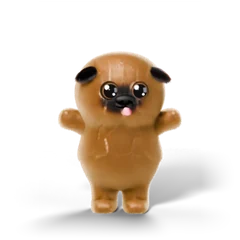
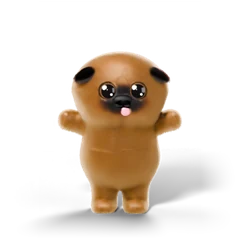
Dancing mascots: multi-move dance, hold to speed up, tap for spin/flip/pose
Pug and alien now play a sprite-sheet dance (shuffle, raise the roof, spin
and point, hops, wiggle) at 24 fps. Holding speeds the dance to ~2.2x and eases
back on release; each tap plays the next special (spin jump, backflip,
superstar pose), cross-faded over the dance. Reduced motion shows a still.

Claude-Session: https://claude.ai/code/session_019fbWZE46PVqoy15rDZvK2K

diff --git a/index.html b/index.html
@@ -408,7 +408,7 @@ body.token-world .topic.pile .symbol::after{content:"";position:absolute;left:-3
 .dgMore:focus-visible{outline:3px solid var(--text);outline-offset:2px}
 .alienRow{display:flex;align-items:center;gap:12px}.alienCat{width:64px;height:64px;flex:none;animation:alienBob 4s ease-in-out infinite}.alienRow h2{margin:0;font-size:26px}
 @keyframes alienBob{50%{transform:translateY(-5px) rotate(-4deg)}}@media(prefers-reduced-motion:reduce){.alienCat{animation:none}}
-.dogMascot,.bubDog,.alienCat{cursor:pointer;-webkit-tap-highlight-color:transparent;user-select:none}
+.dogMascot,.bubDog,.alienCat{cursor:pointer;-webkit-tap-highlight-color:transparent;user-select:none}.mascot{position:relative;aspect-ratio:1;touch-action:none;-webkit-user-select:none;user-select:none;-webkit-touch-callout:none}.mascot i{position:absolute;inset:0;background-repeat:no-repeat;transition:opacity .09s ease-out}.mascot .mFx{opacity:0}.mascot.fx .mFx{opacity:1}.mascot.fx .mBase{opacity:0}
 .dogMascot{width:132px;margin:-14px -8px -10px -10px}.dogMascot img,.bubDog img{width:100%;height:auto;display:block}.bubDog{width:96px;margin:-10px 0}
 .alienCat{width:92px;height:92px;margin:-14px -12px -14px -14px;animation:none}
 .kCat img{position:absolute;left:-34px;top:-8px;width:68px;height:68px;filter:drop-shadow(0 3px 2px rgba(0,0,0,.2));transition:opacity .09s ease-out}.kCat .kScared{opacity:0}.kCat.scared .kScared{opacity:1}.kCat.scared picture img{opacity:0}
@@ -506,7 +506,7 @@ body.token-world.basics-open #parallel{display:none}body.token-world.basics-open
 <div class="pageTitle"><div class="eyebrow">Understand · ETFs</div><h1>ETF Explorer</h1><p>A simple list of popular funds. See what is inside, ask the four big questions, then read more on the linked sites.</p></div>
 <div class="grid">
 
-<section class="card span7" id="fundExplorer"><div class="sectionHead"><div><h2>ETF explorer</h2><p>Pick a pile. Its funds drop in as bouncy bubbles. Pop one to see what is inside and where to read more. We list and explain funds. We do not track how they perform.</p></div><span class="tag">Reviewed quarterly · Oct 2026</span></div><div class="catBanner"><div class="dogMascot" aria-hidden="true"><picture><source media="(prefers-reduced-motion: reduce)" srcset="assets/mascots/pug-still.webp"><img src="assets/mascots/pug-idle.webp" data-move="assets/mascots/pug-move.webp" alt="" width="240" height="240" draggable="false"></picture></div><div><b id="themeTitle">Uh... hi. Pick a pile?</b><p id="themeNote">I am a dog, not a financial advisor. Pop a bubble to see a fund.</p></div></div>
+<section class="card span7" id="fundExplorer"><div class="sectionHead"><div><h2>ETF explorer</h2><p>Pick a pile. Its funds drop in as bouncy bubbles. Pop one to see what is inside and where to read more. We list and explain funds. We do not track how they perform.</p></div><span class="tag">Reviewed quarterly · Oct 2026</span></div><div class="catBanner"><div class="dogMascot" aria-hidden="true"><div class="mascot" data-m="pug"><i class="mBase" style="background:url(assets/mascots/pug-still.webp) center/contain no-repeat"></i><i class="mFx"></i></div></div><div><b id="themeTitle">Uh... hi. Pick a pile?</b><p id="themeNote">I am a dog, not a financial advisor. Pop a bubble to see a fund.</p></div></div>
 <div id="pileGrid"></div>
 <p class="disclaimer">The 10 funds with a fee show the issuer-reported expense ratio, checked 26 Oct 2026. Other funds link to sites that show their current fee. Market price, share class, tax treatment and trading currency differ, so these funds are not direct substitutes. Not financial advice.</p>
 </section>
@@ -556,7 +556,7 @@ body.token-world.basics-open #parallel{display:none}body.token-world.basics-open
 </section>
 <section class="page" id="parallel">
 <div class="pageTitle"><div class="eyebrow">TOKEN WORLD / EXPLORER</div><h1>Tokenization &amp; blockchain</h1><p>Follow how an asset becomes a digital token, where it lives, who services it, and how ownership records move. Educational view only — no trading actions.</p></div>
-<section class="card tokenHome" id="tokenHome"><div class="sectionHead"><div><div class="alienRow"><picture><source media="(prefers-reduced-motion: reduce)" srcset="assets/mascots/alien-still.webp"><img class="alienCat" aria-hidden="true" src="assets/mascots/alien-idle.webp" data-move="assets/mascots/alien-move.webp" alt="" width="240" height="240" draggable="false"></picture><h2>Pick a planet</h2></div><p data-dg="1">Tap a planet. Pop a bubble.</p></div><span class="tag">Reviewed Q4 2026</span></div><div id="tokenPileGrid"></div><div id="tokenFundHost"></div></section>
+<section class="card tokenHome" id="tokenHome"><div class="sectionHead"><div><div class="alienRow"><div class="alienCat mascot" data-m="alien" aria-hidden="true"><i class="mBase" style="background:url(assets/mascots/alien-still.webp) center/contain no-repeat"></i><i class="mFx"></i></div><h2>Pick a planet</h2></div><p data-dg="1">Tap a planet. Pop a bubble.</p></div><span class="tag">Reviewed Q4 2026</span></div><div id="tokenPileGrid"></div><div id="tokenFundHost"></div></section>
 <details class="tokenWatch"><summary>🔭 What to watch (4 quick points)</summary><div class="tokenNotice"><strong>What is worth watching?</strong><span>Not just token prices: watch the asset behind the token, the network it uses, the legal rights it represents, and the institutions connecting the two worlds.</span></div>
 <div class="tokenMetrics">
 <article class="tokenMetric"><span>ASSET BACKING</span><strong>What does it represent?</strong><p>Fund units, government debt, private credit, property or a claim on something else.</p></article>
@@ -678,6 +678,27 @@ function setPage(id){const token=id==='parallel';document.body.classList.remove(
 function scrollToSection(id){const el=document.getElementById(id);if(el){const d=el.closest('details');if(d)d.open=true;}if(el)el.scrollIntoView({behavior:'smooth',block:'start'});}
 function navAction(button,normalPage,tokenAction){if(document.body.classList.contains('token-world')){document.body.classList.toggle('basics-open',tokenAction==='basics');if(tokenAction==='basics'){document.querySelectorAll('.navbtn').forEach(b=>b.classList.toggle('active',b===button));window.scrollTo({top:0,behavior:'smooth'});return}const targets={assets:'tokenCategories',networks:'tokenDetail',issuance:'tokenFlow',brokers:'brokerGrid',home:'parallel'};if(tokenAction==='networks')showTokenDetail('networks');if(tokenAction==='contracts')showTokenDetail('contracts');if(tokenAction==='issuance')showTokenDetail('settlement');document.querySelectorAll('.navbtn').forEach(b=>b.classList.toggle('active',b===button));scrollToSection(targets[tokenAction]||'parallel');return;}const targets={dashboard:'dashboard',news:'news',fees:'fees',world:'world',sectors:'sectors',commodities:'commodities'};document.querySelectorAll('.navbtn').forEach(b=>b.classList.toggle('active',b===button));scrollToSection(targets[normalPage]||normalPage);}
 (()=>{const b=document.querySelector('.tokenCoin');if(!b)return;const imgs=[...b.querySelectorAll('img[data-spin]')];imgs.forEach(i=>{i._still=i.getAttribute('src');new Image().src=i.dataset.spin});b.addEventListener('mouseenter',()=>{if(matchMedia('(prefers-reduced-motion: reduce)').matches)return;imgs.forEach(i=>i.src=i.dataset.spin)});b.addEventListener('mouseleave',()=>imgs.forEach(i=>i.src=i._still))})();
+(()=>{/* Mascot sprite player: default dance loop; hold = speed up; tap = special move (spin, flip, pose in turn),
+ cross-faded over the dance, which keeps running underneath. Sheets are 8 frames wide, 24 fps. */
+ const C=8,FPS=24,SP=24,M={pug:66,alien:66},MOVES=['spin','flip','pose'],u=(m,k)=>'assets/mascots/'+m+'-'+k+'.webp';
+ if(matchMedia('(prefers-reduced-motion: reduce)').matches)return;  // the still frame in the markup stays
+ const frame=(el,m,k,n,f)=>{const r=Math.ceil(n/C),i=Math.floor(f)%n;el.style.background='url('+u(m,k)+') '+((i%C)/(C-1)*100)+'% '+(r>1?Math.floor(i/C)/(r-1)*100:0)+'% / '+C*100+'% '+r*100+'% no-repeat'};
+ let last=performance.now();
+ const tick=now=>{const dt=Math.min(.1,(now-last)/1000);last=now;
+  document.querySelectorAll('.mascot').forEach(el=>{const m=el.dataset.m,n=M[m];if(!n)return;const s=el._s||(el._s={t:0,v:1,k:0,fx:null});
+   s.v+=((s.hold?2.2:1)-s.v)*Math.min(1,dt*6);s.t=(s.t+dt*FPS*s.v)%n;frame(el.querySelector('.mBase'),m,'dance',n,s.t);
+   if(s.fx){s.fx.f+=dt*FPS*Math.max(1,s.v*.8);if(s.fx.f>=SP-1){s.fx=null;el.classList.remove('fx')}else frame(el.querySelector('.mFx'),m,s.fx.k,SP,s.fx.f)}});
+  requestAnimationFrame(tick)};
+ requestAnimationFrame(tick);
+ const st=e=>{const el=e.target.closest&&e.target.closest('.mascot');return el&&(el._s||(el._s={t:0,v:1,k:0,fx:null}))&&el};
+ document.addEventListener('pointerdown',e=>{const el=st(e);if(!el)return;const s=el._s;s.down=1;clearTimeout(s.tm);s.tm=setTimeout(()=>{if(s.down)s.hold=true},180);window._mHeld=el});
+ const up=()=>{const el=window._mHeld;if(!el)return;window._mHeld=null;const s=el._s;clearTimeout(s.tm);
+  if(s.down&&!s.hold&&!s.fx){const k=MOVES[s.k++%MOVES.length];s.fx={k,f:0};frame(el.querySelector('.mFx'),el.dataset.m,k,SP,0);el.classList.add('fx')}
+  s.down=0;s.hold=false};
+ document.addEventListener('pointerup',up);document.addEventListener('pointercancel',up);
+ document.addEventListener('contextmenu',e=>{if(e.target.closest&&e.target.closest('.mascot'))e.preventDefault()});
+ addEventListener('load',()=>Object.keys(M).forEach(m=>['dance',...MOVES].forEach(k=>{new Image().src=u(m,k)})));
+})();
 function toggleTokenWorld(){const token=document.body.classList.contains('token-world');portalTransition(token?'exit':'enter',token?'dashboard':'parallel')}
 function openPage(id){setPage(id);scrollToSection(id)}
 let portalBusy=false;
@@ -1009,7 +1030,6 @@ document.querySelectorAll('.topic,.exploreCard,.tokenCategory,.tokenTopic,.token
 
 /* Bubble pit: a theme's funds drop in as heavy bouncing balls. Pop one to open the fund. */
 const DOGSVG=document.querySelector('.dogMascot').innerHTML;let bub=null;
-document.addEventListener('click',e=>{const m=e.target.closest('.dogMascot,.bubDog,.alienCat');const i=m&&(m.tagName==='IMG'?m:m.querySelector('img'));if(!i||!i.dataset.move||i._busy||matchMedia('(prefers-reduced-motion: reduce)').matches)return;i._busy=1;const idle=i.src;(i._mv||(i._mv=fetch(i.dataset.move).then(r=>r.blob()))).then(b=>{const u=URL.createObjectURL(b);i.src=u;setTimeout(()=>{i.src=idle;URL.revokeObjectURL(u);i._busy=0},1000)}).catch(()=>{i._busy=0})});
 function openBubbles(key){const T=THEMES[key];if(!T)return;closeBubbles(true);const L=document.getElementById('bubbleLayer'),F=document.getElementById('bubField');lastFocus=document.activeElement;
  L.hidden=false;document.body.style.overflow='hidden';document.getElementById('bubTitle').textContent=T[1]+' '+T[0];
  const ids=T[2],n=ids.length;document.getElementById('bubNote').textContent=T[3]||(SMUG[Math.floor(Math.random()*SMUG.length)].replace('{n}',T[0]));document.getElementById('bubDog').innerHTML=DOGSVG;

diff --git a/scripts/mascots/player_test.py b/scripts/mascots/player_test.py
@@ -1,0 +1,19 @@
+import subprocess, sys, time
+from playwright.sync_api import sync_playwright
+srv = subprocess.Popen([sys.executable,'-m','http.server','8769'], cwd='/home/claude/throwindice', stdout=subprocess.DEVNULL, stderr=subprocess.DEVNULL); time.sleep(1)
+try:
+  with sync_playwright() as p:
+    b = p.chromium.launch(); pg = b.new_page(viewport={"width": 390, "height": 844}, has_touch=False); errs=[]
+    pg.on("pageerror", lambda e: errs.append(str(e))); pg.on("requestfailed", lambda r: errs.append('FAIL '+r.url))
+    pg.goto("http://localhost:8769/index.html"); pg.wait_for_timeout(1500)
+    pg.evaluate("document.querySelector('.dogMascot').scrollIntoView({block:'center'})"); pg.wait_for_timeout(300)
+    st = lambda: pg.eval_on_selector('.dogMascot .mascot', 'e=>({t:+(e._s&&e._s.t||0).toFixed(1), v:+(e._s&&e._s.v||0).toFixed(2), fx:e.classList.contains("fx"), k:e._s&&e._s.fx&&e._s.fx.k, bg:e.querySelector(".mBase").style.backgroundImage.slice(-20)})')
+    print('idle  ', st())
+    bx = pg.query_selector('.dogMascot .mascot').bounding_box(); cx, cy = bx['x'] + bx['width']/2, bx['y'] + bx['height']/2
+    pg.mouse.move(cx, cy); pg.mouse.down(); pg.wait_for_timeout(700); print('held  ', st()); pg.mouse.up(); pg.wait_for_timeout(50)
+    print('release', st()); pg.wait_for_timeout(900); print('eased ', st())
+    for k in range(3):
+        pg.mouse.click(cx, cy); pg.wait_for_timeout(120); print('tap', k, st()); pg.wait_for_timeout(1300)
+    print('after ', st(), 'errors:', errs)
+    b.close()
+finally: srv.terminate()
